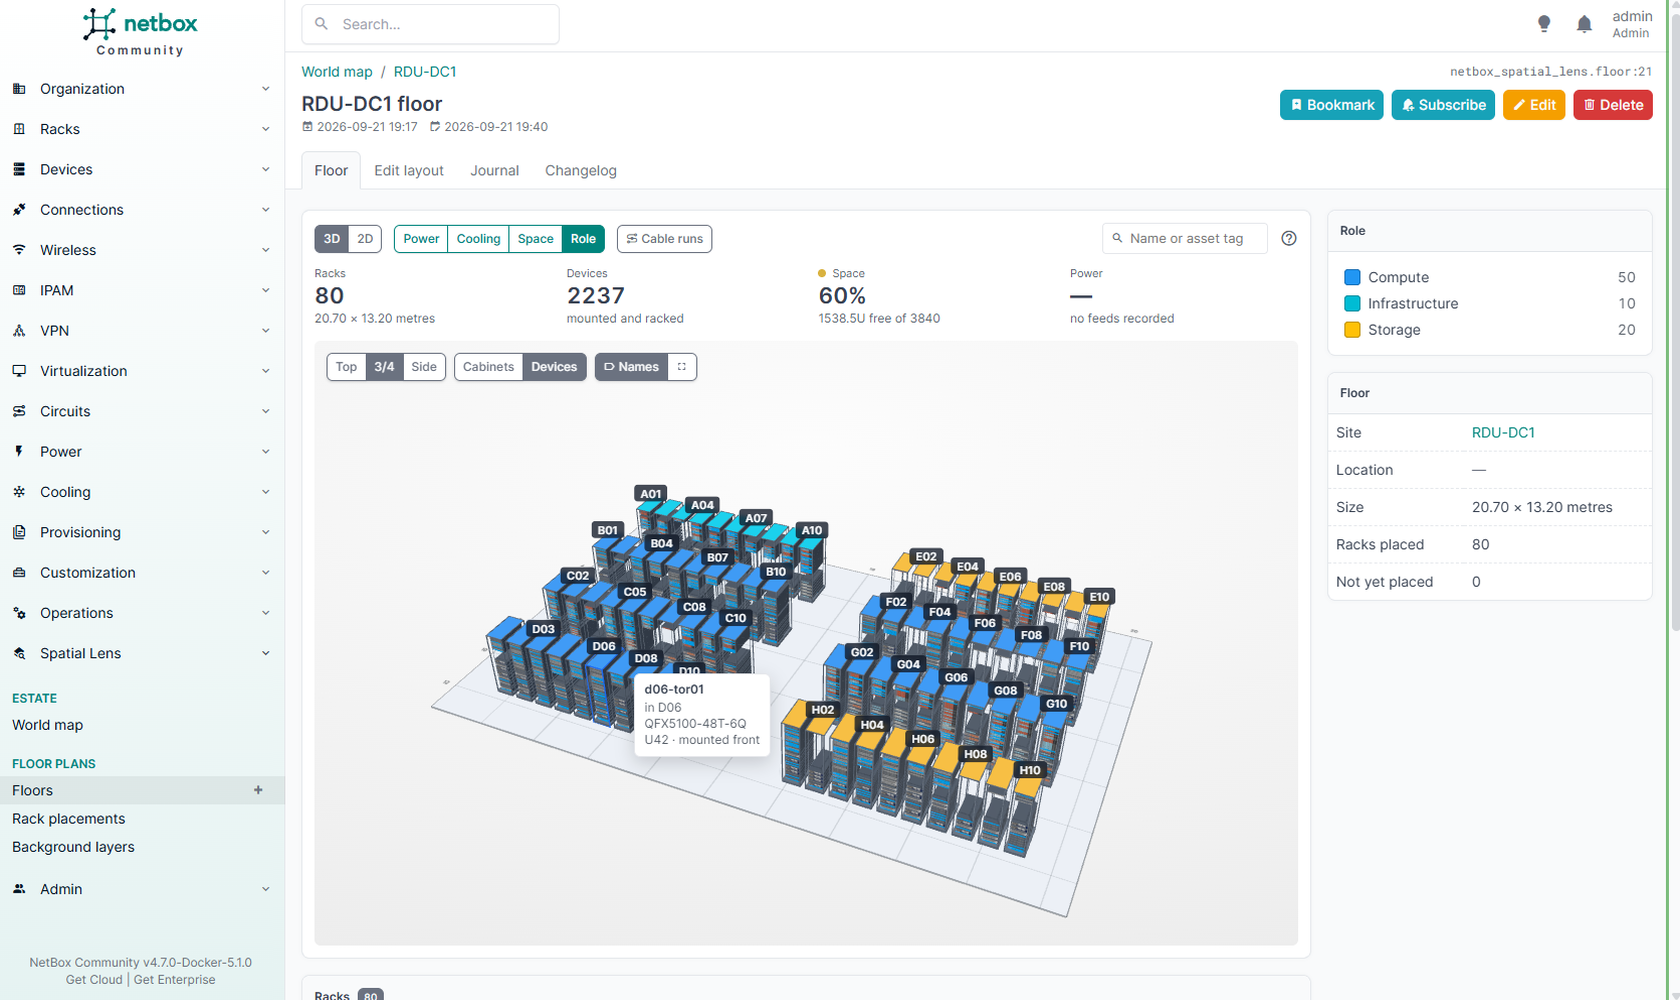
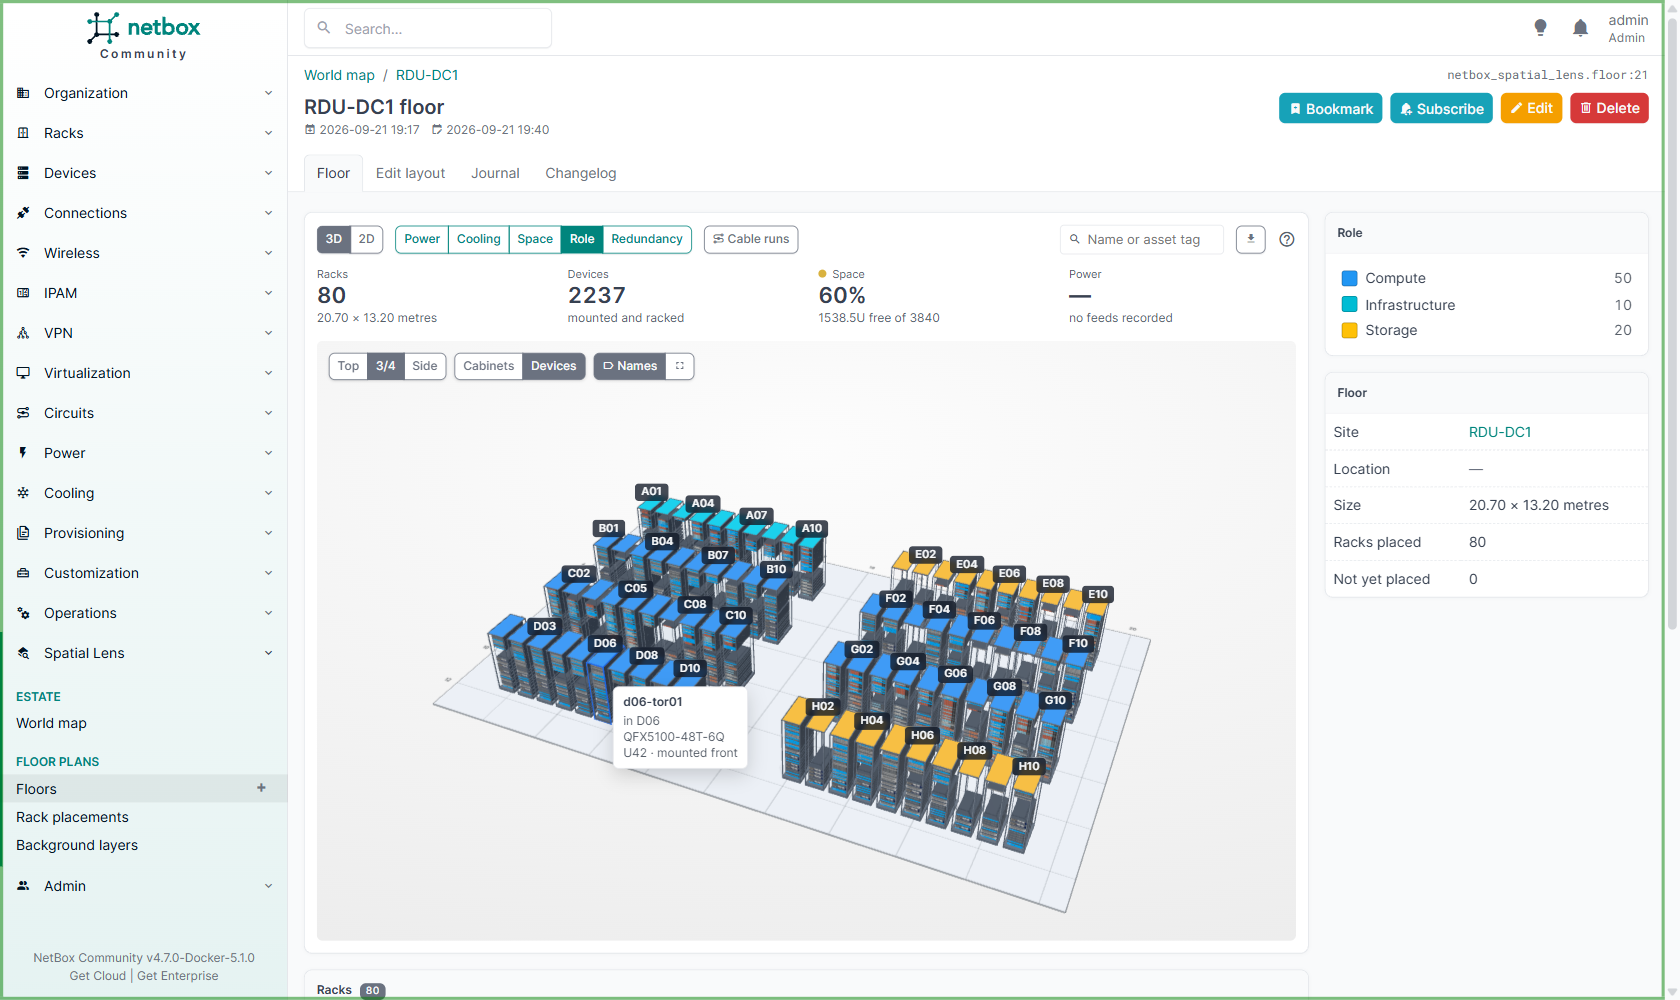
docs: retake the floor, rack and site captures on v0.6.0

diff --git a/CHANGELOG.md b/CHANGELOG.md
@@ -27,7 +27,7 @@
 - **Extending:** `Band` and `Scale` declare a legend, and the plugin's own scales `UTILISATION` and `COMPLETION` are public. `Scale.reading(percent, label)` gives the band and the gauge in one call.
 - **Extending:** the function gets a `context` with the reader (`user`), what is drawn (`scope`: the floor or the rack) and `visible(queryset)`, which restricts a queryset to what the reader may view. In the rack view, the function gets `Device` objects, and the port counts and the power are in `context.mounted`.
 - **REST API:** in `floors/<id>/layout/`, each legend entry has its `band` key and its `count`, and each rack has its `band`.
-- **Docs:** the captures of the world map and of the four extending examples are retaken, and the README shows the calibration of a background layer.
+- **Docs:** every capture of the README and of the extending page is retaken on this version, and the README shows the calibration of a background layer.
 
 ## v0.5.0 (2026-11-16)
 
